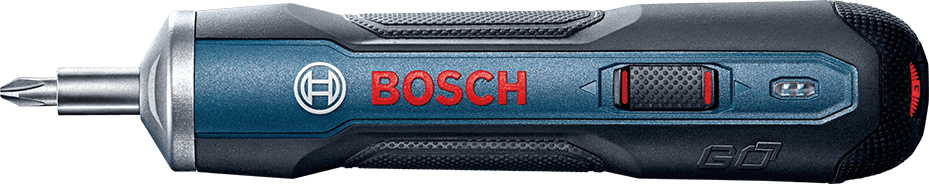
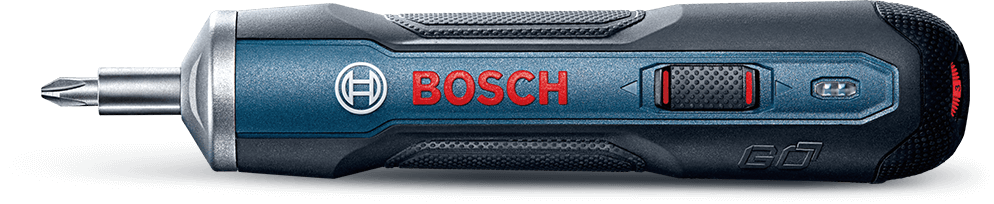
update

diff --git a/build/css/style.css b/build/css/style.css
@@ -2549,12 +2549,12 @@ p {
 
 .performance-xl__full {
   position: absolute;
-  top: 56.1%;
-  left: 50.1%;
+  top: 67.8%;
+  left: 49.3%;
   -webkit-transform: translate(-50%, -50%);
       -ms-transform: translate(-50%, -50%);
           transform: translate(-50%, -50%);
-  width: 929px;
+  width: 999px;
   height: 183px;
   z-index: 1;
 }
@@ -2567,7 +2567,7 @@ p {
   background-position: 0 bottom;
   background-repeat: no-repeat;
   z-index: 2;
-  min-height: 180px;
+  min-height: 250px;
   will-change: min-height;
   -webkit-transition: min-height 1.6s ease 1.2s;
   -o-transition: min-height 1.6s ease 1.2s;
@@ -2575,7 +2575,7 @@ p {
 }
 
 .performance-xl__full-inner.visible {
-  min-height: 90px;
+  min-height: 112px;
 }
 
 .performance-xl__img {

diff --git a/src/blocks/performance/performance.scss b/src/blocks/performance/performance.scss
@@ -464,10 +464,10 @@
 	}
 	&__full {
 		position: absolute;
-		top: 56.1%;
-		left: 50.1%;
+		top: 67.8%;
+		left: 49.3%;
 		transform: translate(-50%, -50%);
-		width: 929px;
+		width: 999px;
 		height: 183px;
 		z-index: 1;
 	}
@@ -479,11 +479,11 @@
 		background-position:  0 bottom;
 		background-repeat:  no-repeat;
 		z-index: 2;
-		min-height: 180px;
+		min-height: 250px;
 		will-change: min-height;
 		transition: min-height 1.6s ease 1.2s;
 		&.visible {
-			min-height: 90px;
+			min-height: 112px;
 		}
 	}
 	&__img {

diff --git a/build/js/main.js b/build/js/main.js
@@ -1,9 +1,9 @@
-
 // .about-company scripts goes here 
 
 /*$(function() {
 	
 });*/
+
 (function () {
 	$('.js-demo-slider').slick({
 		arrows: false,
@@ -51,12 +51,12 @@ $(function () {
 	});
 });
 
-// .features-nore scripts goes here 
+// .footer scripts goes here 
 
 /*$(function() {
 	
 });*/
-// .footer scripts goes here 
+// .features-nore scripts goes here 
 
 /*$(function() {
 	
